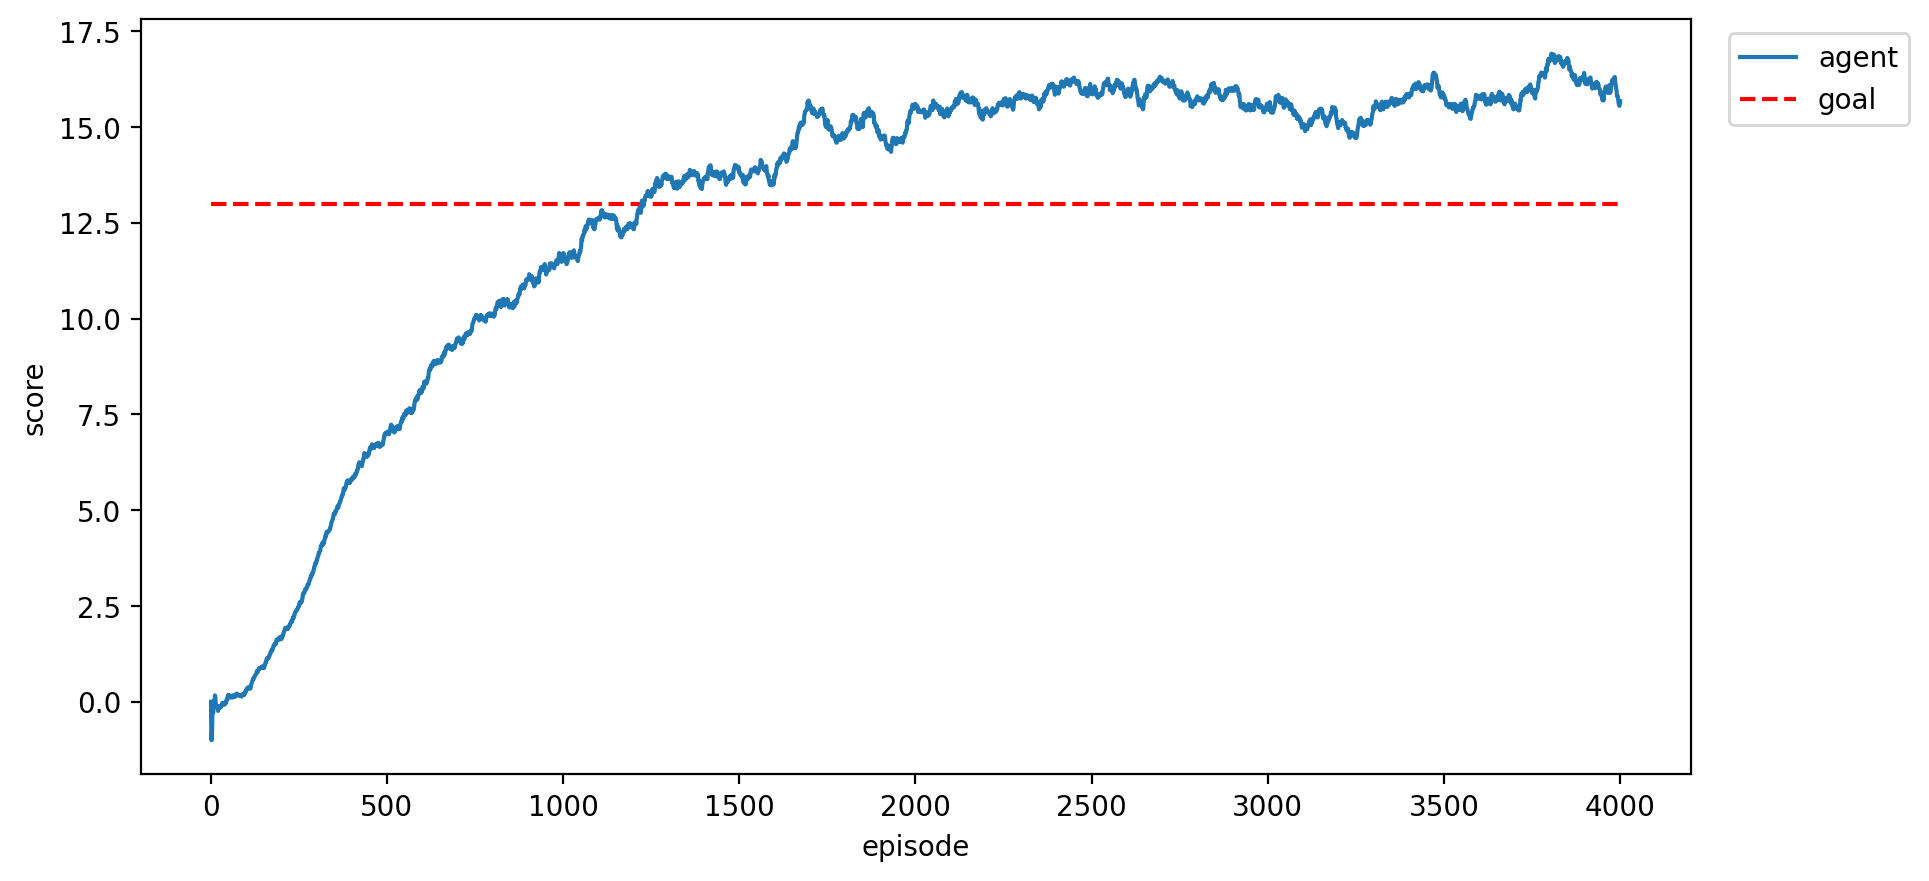
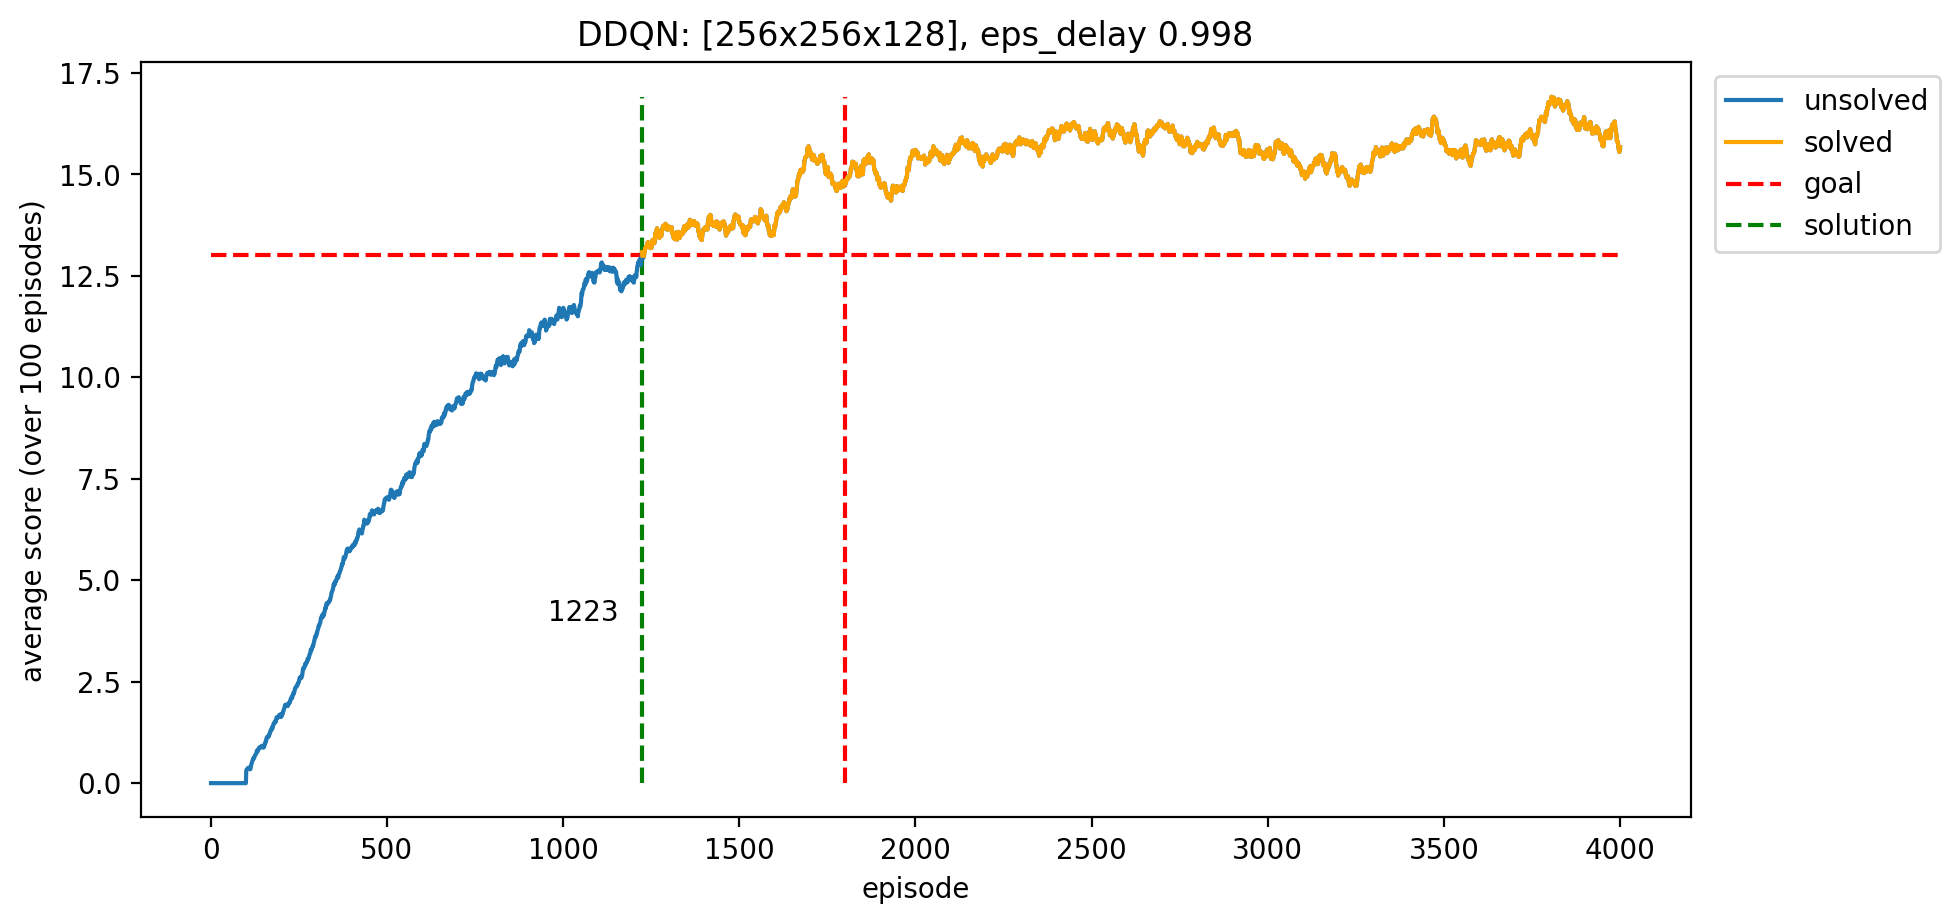
report results, improved plotting

diff --git a/script_train_state.py b/script_train_state.py
@@ -17,9 +17,15 @@ env_info = env.reset(train_mode=True)[brain_name]
 action_size = brain.vector_action_space_size
 state_size = brain.vector_observation_space_size
 
-print("\nstart training ddqn agent ([512,256,128], tau=2e-3, eps_decay=0.998)\n")
+print("\nstart training dqn agent ([512,512], tau=1-3, eps_decay=0.999)\n")
+title = "ddqn_512x512_epsd997"
+agent = Agent(state_size, action_size, seed=0, double_ql=False, tau=1e-3, network_layers=[512,512])
+scores = train_agent(env, brain_name, agent, epsilon_decay=0.999, epsilon_min=0.01, prefix=title + "_")
+show_scores_plot(scores, filename="assets/scores_state_{}.png".format(title))
+
+print("\nstart training ddqn agent ([512,512,128], tau=2e-3, eps_decay=0.998)\n")
 title = "ddqn_512x256x128"
-agent = Agent(state_size, action_size, seed=0, double_ql=True, tau=2e-3, network_layers=[512,256,128])
+agent = Agent(state_size, action_size, seed=0, double_ql=True, tau=2e-3, network_layers=[512,512,128])
 scores = train_agent(env, brain_name, agent, epsilon_decay=0.998, epsilon_min=0.01, prefix=title + "_")
 show_scores_plot(scores, filename="assets/scores_state_{}.png".format(title))
 
@@ -32,5 +38,11 @@ show_scores_plot(scores, filename="assets/scores_state_{}.png".format(title))
 print("\nstart training ddqn agent ([256,256,128], tau=2e-3, eps_decay=0.998)\n")
 title = "ddqn_256_256_128"
 agent = Agent(state_size, action_size, seed=0, double_ql=True, tau=2e-3, network_layers=[256,256,128])
+scores = train_agent(env, brain_name, agent, epsilon_decay=0.998, epsilon_min=0.01, prefix=title + "_")
+show_scores_plot(scores, filename="assets/scores_state_{}.png".format(title))
+
+print("\nstart training ddqn agent ([512,256,128], tau=2e-3, eps_decay=0.998)\n")
+title = "ddqn_512x256x128"
+agent = Agent(state_size, action_size, seed=0, double_ql=True, tau=2e-3, network_layers=[512,256,128])
 scores = train_agent(env, brain_name, agent, epsilon_decay=0.998, epsilon_min=0.01, prefix=title + "_")
 show_scores_plot(scores, filename="assets/scores_state_{}.png".format(title))

diff --git a/src/training.py b/src/training.py
@@ -105,11 +105,27 @@ def show_scores_plot(scores, filename=None, save_np=True):
         np.save(filename.split(".")[0] + ".npy" if filename else "scores.npy", scores)
     window_size = 100
     scores = [np.mean(scores[max(0, idx-window_size+1):idx+1]) for idx in range(len(scores))]
+    scores[:100] = 0 # first 100 scores are not averaged
+    # plot agent scores
     plt.plot(np.arange(1, len(scores)+1), scores, label="agent")
+    # plot agent scores that solved environment
+    win_scores = scores.copy()
+    win_scores[win_scores < 13] = np.nan
+    plt.plot(np.arange(1, len(scores)+1), win_scores, label="solved", color="orange")
+    # marker for target score (solution)
     plt.hlines(13, 1, len(scores), colors=["red"], linestyles=["dashed"], label="goal")
-    plt.ylabel("score")
+    # marker for max target episode for finding solution
+    plt.vlines(1800, 0, max(max(scores), 13), colors=["red"], linestyles=["dashed"])
+    # marker for episode when solution was first found
+    ep_solve = np.argmax(np.array(scores) > 13)
+    ep_solve = ep_solve
+    if ep_solve:
+        plt.vlines(ep_solve, 0, max(max(scores), 13), colors=["green"], linestyles=["dashed"], label="solution")
+        plt.annotate("{}".format(ep_solve), (ep_solve - len(scores) / 15, 4.0))
+    # labels and legend
+    plt.ylabel("average score (over 100 episodes)")
     plt.xlabel("episode")
-    plt.legend(bbox_to_anchor=(1.15, 1))
+    plt.legend(bbox_to_anchor=(1.17, 1))
     if filename:
         plt.savefig(filename, bbox_inches='tight')
         plt.close()

diff --git a/README.md b/README.md
@@ -49,3 +49,39 @@ env = UnityEnvironment(file_name="src/exec/...")
 ## Training the agent
 
 All code for training is in [training.py](./src/training.py). You can execute the code as shown in this [notebook](./train_state_based.ipynb) for training an agent for the state-based environment.
+
+## Experiments
+
+### State-based environment
+
+Experiments have been run using the code in this repository (see [script_train_state.py](./script_train_state.py)) to generate results for deep q-networks with or without the improvement through double q-learning [Van Hasselt et al., 2015], with different network architectures and varying epsilon-decay.
+
+Details about the neural network are found in [model.py](.src/model.py), details about the training of the DQN-based agent are found in [agent.py](./src/agent.py). The resulting network weights of each model that learned a solution to the environment are saved in [src/params/](./src/params/)
+
+The experiments are summarized in the following table:
+
+Learning algorithm | Network architecture | Epsilon decay | Episodes until solution
+--- | --- | --- | ---
+DQN | 512x512 | 0.999 | no solution
+DDQN | 512x512x128 | 0.998 | 1752
+DDQN | 512x512 | 0.997 | 1226
+DDQN | 256x256x128 | 0.998 | 1223
+DDQN | 512x256x128 | 0.998 | 1196
+
+The "naïve" implementation of a simple DQN with 2 hidden layers, each with 512 units resulted in the following performance shown in the following plot, showing the scores (averaged over past 100 episodes) over the course of training the agent for 2000 episodes. The horizontal red dashed line shows the goal average score of +13. The vertical red dashed line shows the goal of learning a policy to solve the environment within the first 1800 episodes. 
+
+![first implementation performance plot](./assets/plot_state_dqn_512x512_epsd999.png)
+
+Despite not reaching the desired performance during training, the average reward over 100 episodes exceeds +13 when testing the trained agent. This is likely because of the epsilon-greedy action selection during training. Even after 2000 episodes of training, the agent still chooses random actions with a probability of 0.999^2000=13.52%. Reducing the epsilon decay from 0.999 to 0.998 reduces the probability of choosing random actions after 2000 episodes to just 0.998^2000=1.82%. This is much closer to a greedy policy which will exploit the found policy more and thus lead to higher average scores during training. 
+
+Aside from tuning the epsilon decay, subsequent experiments also use double q-learning [Van Hasselt et al., 2015]. The network architecture has been varied to include deeper networks (512x512x128) as well as deeper, yet narrower, networks (256x256x128). The best three solutions, shown in the bottom three rows of the table above, perform very similarly. Considering the stochastic nature of neural network training, it can be claimed that the performance difference between these three setups are negligible. In order to reduce training time and model complexity, one may choose the network architecture of 256x256x128 (108,288 network weights) over the 512x512 (283,136 weights) and 512x256x128 (183,296 weights) architectures. The performance of this network is shown below:
+
+![best performance plot](./assets/plot_state_ddqn_256x256x128_epsd998.png)
+
+## Further work
+
+In order to further improve the learning agent in this environment, the goals are manifold. One can aim to (1) achieve better performance within the first *n* training episodes, (2) speed up training, or (3) reduce the model size complexity. As such, it would be possible to implement a variety of proposed DQN improvements to speed up training and improve performance, such as:
+- implement prioritized experience replay [Schaul et al., ICLR 2016]
+- implement noisynets [Fortunato et al., ICLR 2018]
+
+Moreover, to reduce the model size and complexity, it would be advantageous to simplify the neural network architecture, hence reducing the number of model parameters as much as possible. This will lead to faster training, faster prediction (forward pass through the network) and a network less prone to overfitting. It is possible to run a more extensive search over the space of architectures as well as other hyperparameters, to jointly optimize them, either through an extensive grid search or a random search.
